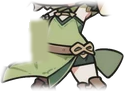
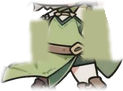
塔防妖精骨骼:原圖面向改標朝左(頭手同向)、挖掉畫在身上的右袖、弓瞄準時斜舉;動作加預備蓄力/舉弓過衝/全身微抖/放箭阻尼彈震/待機重心換腳

diff --git a/src/views/aegis/td/rig.ts b/src/views/aegis/td/rig.ts
@@ -73,6 +73,7 @@ export interface Pose {
 
 const ease = (k: number) => (k < 0.5 ? 2 * k * k : 1 - Math.pow(-2 * k + 2, 2) / 2)
 const easeOut = (k: number) => 1 - (1 - k) * (1 - k)
+const easeOutBack = (k: number) => 1 + 2.2 * Math.pow(k - 1, 3) + 1.2 * Math.pow(k - 1, 2)   // 過衝一點再回來
 const clamp01 = (v: number) => Math.max(0, Math.min(1, v))
 const lerp = (a: number, b: number, k: number) => a + (b - a) * k
 const lerp2 = (a: [number, number], b: [number, number], k: number): [number, number] => [lerp(a[0], b[0], k), lerp(a[1], b[1], k)]
@@ -98,11 +99,11 @@ export function bowPose(rig: Rig, clock: number, atk: number, phase: number): Po
   const restBow: [number, number] = [shB[0] + fwd * 8, shB[1] + 50]
   const restDraw: [number, number] = [shD[0] - fwd * 6, shD[1] + 50]
   // 瞄準:前手往前伸直把弓立起來(弓在臉前方);後手先搭到弦上(握把後面一點),再一路拉到耳後
-  const aimBow: [number, number] = [shB[0] + fwd * 50, shB[1] + 4]
+  const aimBow: [number, number] = [shB[0] + fwd * 50, shB[1] + 10]
   const nock: [number, number] = [aimBow[0] - fwd * 16, aimBow[1]]
   const cheek: [number, number] = [shD[0] - fwd * 20, shD[1] + 6]
-  // 弓:0 = 直立(弓背朝前);休息時弓頂往後斜靠著
-  const uprightRot = 0
+  // 弓:0 = 直立(弓背朝前);瞄準時弓頂往目標那邊傾(天堂妖精那種弓斜舉在胸前的樣子);休息時弓頂往後靠著
+  const uprightRot = fwd * 0.7
   const restRot = -fwd * 0.18
 
   // 呼吸(待機,每座塔錯相)
@@ -112,52 +113,68 @@ export function bowPose(rig: Rig, clock: number, atk: number, phase: number): Po
   p.parts.head!.dy = -1.5 * br
 
   if (atk < 0 || atk >= rig.total) {
-    p.hands.armBow = [restBow[0], restBow[1] + 1.5 * br]
-    p.hands.armDraw = [restDraw[0] + fwd * 2 * br, restDraw[1] + 1.5 * br]
-    p.bowRot = restRot + 0.02 * br
+    const sway = Math.sin(clock * 0.9 + phase)          // 重心慢慢左右換
+    p.root.dx = 1.5 * sway
+    p.root.rot = 0.012 * sway
+    p.hands.armBow = [restBow[0] + 1.2 * sway, restBow[1] + 1.5 * br]
+    p.hands.armDraw = [restDraw[0] + fwd * 2 * br - 1.2 * sway, restDraw[1] + 1.5 * br]
+    p.bowRot = restRot + 0.03 * br + 0.02 * sway
     p.arrow = 0
     return p
   }
-  let bowK = 0, drawK = 0, lean = 0, recoil = 0, lower = 0
-  if (atk < 150) {                       // 舉弓
-    bowK = easeOut(atk / 150)
-  } else if (atk < 420) {                // 拉弦
-    bowK = 1; drawK = ease((atk - 150) / 270); lean = drawK
-  } else if (atk < 480) {                // 停住瞄準(微抖)
-    bowK = 1; drawK = 1; lean = 1
-  } else if (atk < 560) {                // 放箭:手甩回、弓回彈、身體後坐
-    bowK = 1; drawK = 0; lean = 1 - (atk - 480) / 80; recoil = 1 - (atk - 480) / 80
-  } else {                               // 放下
-    lower = ease((atk - 560) / 200); bowK = 1 - lower; drawK = 0
+  // 一次出手的節奏(毫秒):預備微蹲 0~60 → 舉弓(帶一點過衝)60~190 → 拉弦到耳後 190~420 → 停住瞄 420~480 → 放箭 480(彈震)→ 放下 580~760
+  const front = fwd < 0 ? 'legL' : 'legR', back = fwd < 0 ? 'legR' : 'legL'
+  let bowK = 0, drawK = 0, lean = 0, recoil = 0, lower = 0, prep = 0, settle = 0
+  if (atk < 60) {                        // 預備:整個人先往下壓一下、弓手先往後帶(拉弓前的蓄力)
+    prep = Math.sin((atk / 60) * Math.PI)
+  } else if (atk < 190) {                // 舉弓:帶過衝,手舉過頭再落回瞄準位
+    bowK = easeOutBack((atk - 60) / 130)
+  } else if (atk < 420) {                // 拉弦:慢起快到,身體跟著坐進去
+    bowK = 1; drawK = ease((atk - 190) / 230); lean = drawK
+  } else if (atk < 480) {                // 停住瞄準:全身微微發抖(不是只有弦)
+    bowK = 1; drawK = 1; lean = 1; settle = 1
+  } else if (atk < 580) {                // 放箭:後座 + 阻尼彈震
+    bowK = 1; drawK = 0; lean = 1 - (atk - 480) / 100; recoil = 1 - (atk - 480) / 100
+  } else {                               // 放下:慢慢鬆開,弓晃回休息位
+    lower = ease((atk - 580) / 180); bowK = 1 - lower; drawK = 0
   }
-  p.hands.armBow = lerp2(restBow, aimBow, bowK)
-  p.bowRot = lerp(restRot, uprightRot, bowK)
-  // 拉弦手:舉弓時從身側到弦上,拉弦時從弦上拉到下巴旁,放箭後往後甩開一點再放下
-  const flung: [number, number] = [cheek[0] - fwd * 10, cheek[1] + 8]
+  const tremor = settle ? Math.sin(atk * 0.75) * 0.6 : 0
+  const snap = recoil > 0 ? Math.exp(-(atk - 480) / 45) * Math.sin((atk - 480) * 0.25) : 0   // 放箭後 ~100ms 的衰減震盪
+  // 弓手:預備時往後帶一點;舉弓後固定;放箭瞬間往前踢一下再彈回
+  const bowHand = lerp2(restBow, aimBow, bowK)
+  bowHand[0] += -fwd * 4 * prep + fwd * 5 * snap + tremor * 0.5
+  bowHand[1] += 2 * prep - 2 * snap
+  p.hands.armBow = bowHand
+  p.bowRot = lerp(restRot, uprightRot, bowK) + fwd * 0.18 * snap - fwd * 0.05 * prep
+  // 拉弦手:舉弓時從身側到弦上,拉弦時從弦上拉到耳後,放箭後往後上方甩開(肘帶著走),再慢慢放下
+  const flung: [number, number] = [cheek[0] - fwd * 14, cheek[1] - 6]
   let drawHand: [number, number]
-  if (atk < 150) drawHand = lerp2(restDraw, nock, easeOut(atk / 150))
-  else if (atk < 480) drawHand = lerp2(nock, cheek, drawK)
-  else if (atk < 560) drawHand = lerp2(cheek, flung, easeOut((atk - 480) / 80))
+  if (atk < 60) drawHand = [restDraw[0] - fwd * 2 * prep, restDraw[1] + 2 * prep]
+  else if (atk < 190) drawHand = lerp2(restDraw, nock, easeOut((atk - 60) / 130))
+  else if (atk < 480) { drawHand = lerp2(nock, cheek, drawK); drawHand[0] += tremor; drawHand[1] += tremor * 0.4 }
+  else if (atk < 580) drawHand = lerp2(cheek, flung, easeOut((atk - 480) / 60))
   else drawHand = lerp2(flung, restDraw, lower)
   p.hands.armDraw = drawHand
-  // 弦:拉弦期間弦掛在拉弦手上;瞄準時微抖
-  const tense = atk >= 420 && atk < 480 ? Math.sin(atk * 0.9) * 0.8 : 0
-  p.stringHand = atk >= 150 && atk < 480 ? [drawHand[0] + tense, drawHand[1]] : null
-  p.arrow = atk >= 200 && atk < 480 ? 1 : 0
-  // 身體:拉弦時微後仰、重心後移;放箭瞬間往後坐再彈回(rig 空間前方 = +x,所以後 = -fwd)
-  p.root.rot = fwd * (-0.05 * lean - 0.07 * recoil)
-  p.root.dx = -fwd * (4 * lean + 5 * recoil)
-  p.root.sx = 1 + 0.05 * recoil
-  p.root.sy = 1 - 0.04 * recoil
-  p.parts.head!.rot += fwd * 0.04 * lean
-  p.parts.head!.dx = -fwd * 3 * lean
-  // 腳步:拉弦時前腳往前跨、後腳撐住、整個人微蹲;放箭時前腳再踩一下
-  p.parts.legR!.dx = fwd * (6 * lean + 3 * recoil)
-  p.parts.legR!.rot = -fwd * 0.12 * lean
-  p.parts.legL!.dx = -fwd * 3 * lean
-  p.root.dy = 2 * lean + 2 * recoil
-  // 弓回彈:放箭瞬間弓微微壓扁
-  p.bowSquash = 1 - 0.1 * recoil
+  // 弦:拉弦期間弦掛在拉弦手上
+  p.stringHand = atk >= 190 && atk < 480 ? [drawHand[0], drawHand[1]] : null
+  p.arrow = atk >= 230 && atk < 480 ? 1 : 0
+  // 身體:預備微蹲;拉弦時重心坐後、肩膀沉;放箭瞬間後坐再彈震回來
+  p.root.rot = fwd * (-0.05 * lean - 0.06 * recoil - 0.03 * snap)
+  p.root.dx = -fwd * (4 * lean + 4 * recoil) + fwd * 2 * snap
+  p.root.sx = 1 + 0.04 * recoil + 0.03 * prep
+  p.root.sy = 1 - 0.035 * recoil - 0.04 * prep
+  p.root.dy = 2 * lean + 2 * recoil + 3 * prep
+  // 身體跟頭:拉弦時身體往弓那邊轉一點、頭盯著目標微傾;放箭瞬間頭往後頓一下
+  p.parts.torso!.rot = fwd * (-0.03 * lean)
+  p.parts.head!.rot += fwd * (0.05 * lean + 0.04 * snap)
+  p.parts.head!.dx = -fwd * (3 * lean + 2 * recoil) + fwd * 1.5 * snap
+  p.parts.head!.dy += 1.5 * lean + tremor * 0.3
+  // 腳步:預備時後腳先蹬、拉弦時前腳跨出、後腳撐住;放箭時前腳再踩一下
+  p.parts[front]!.dx = fwd * (6 * lean + 3 * recoil)
+  p.parts[front]!.rot = -fwd * 0.12 * lean
+  p.parts[back]!.dx = -fwd * (3 * lean + 2 * prep)
+  // 弓回彈:放箭瞬間弓壓扁再彈開
+  p.bowSquash = 1 - 0.1 * recoil + 0.04 * snap
   return p
 }
 
